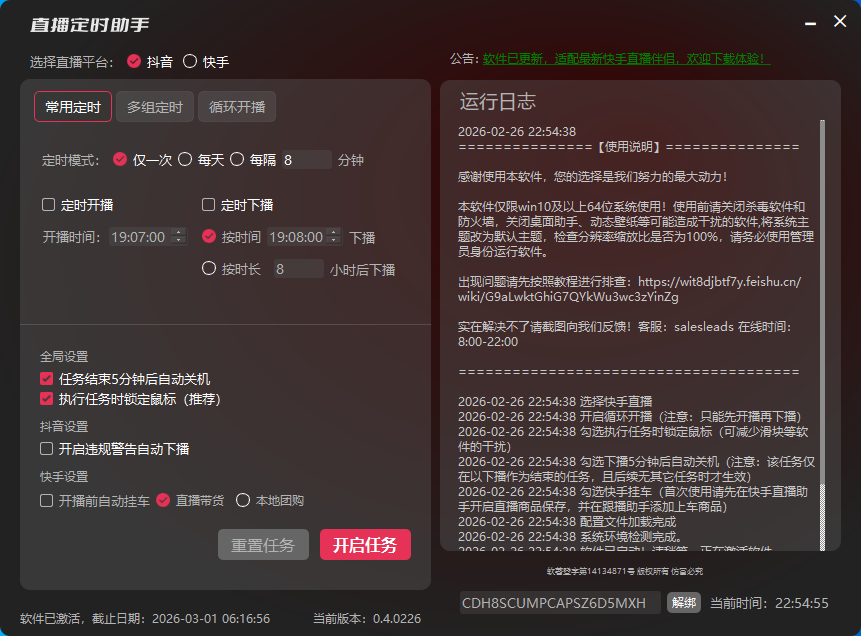
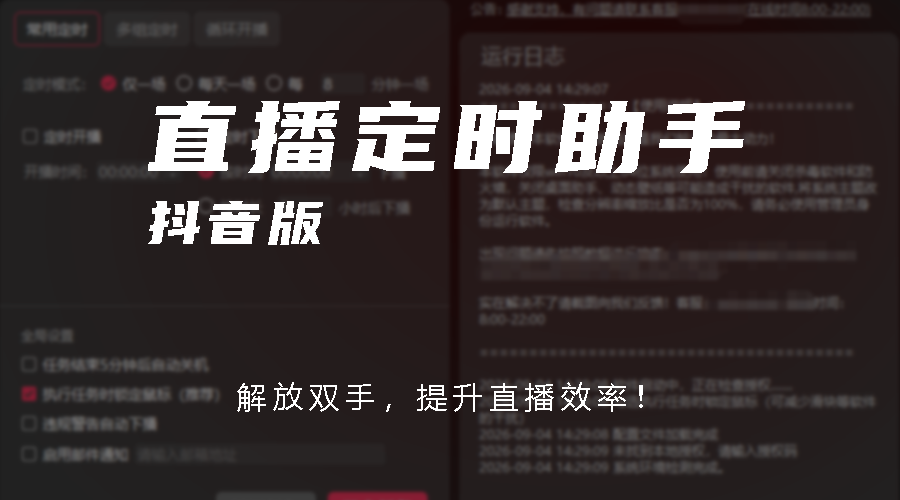
Refactor code structure for improved readability and maintainability

diff --git a/src/content/projects/kwaitimer.md b/src/content/projects/kwaitimer.md
@@ -5,6 +5,7 @@ pubDate: 2025-03-28
 updatedDate: 2026-08-30
 tags: ['Windows', '自动化', '快手', '直播']
 featured: false
+coverImage: '/projects/kwaitimer/cover.png'
 download: 'https://cnb.cool/yuzhiblue/Releases/-/git/raw/main/%E5%BF%AB%E6%89%8B%E7%9B%B4%E6%92%AD%E5%AE%9A%E6%97%B6%E5%8A%A9%E6%89%8B/Kwai_0.5.0.exe'
 draft: false
 ---
@@ -30,6 +31,14 @@ draft: false
 - 支持团购带货自动挂车功能
 
 ## 最新版 0.5.0
+
+## 界面截图
+
+![软件主界面：常用定时](/projects/kwaitimer/1.png)
+
+![软件主界面：多组定时](/projects/kwaitimer/2.png)
+
+![软件主界面：循环定时](/projects/kwaitimer/3.png)
 
 ### 下载地址
 

diff --git a/src/content/projects/doutimer.md b/src/content/projects/doutimer.md
@@ -24,6 +24,15 @@ draft: false
 
 - 本次更新：添加邮箱通知功能 / 剥离快手相关逻辑 / 修复其他问题
 
+## 界面截图
+
+![软件主界面：常用定时](/projects/doutimer/1.png)
+
+![软件主界面：多组定时](/projects/doutimer/2.png)
+
+![软件主界面：循环定时](/projects/doutimer/3.png)
+
+
 ### 下载地址
 
 - 蓝奏云下载：

diff --git a/src/content/projects/obstimer.md b/src/content/projects/obstimer.md
@@ -29,6 +29,10 @@ OBS定时助手是 OBS Studio 上面的一个定时脚本插件。通过调用 O
 - 定时关闭摄像机
 - 支持无限次循环功能
 
+## 界面截图
+
+![脚本主界面](/projects/obstimer/1.png)
+
 ## 下载地址
 
 - 蓝奏云：https://wwsm.lanzouo.com/incxS30yw58d （密码：`gy7u`）

diff --git a/src/content/projects/obstimer-en.md b/src/content/projects/obstimer-en.md
@@ -29,6 +29,10 @@ If you stream via OBS (on any platform — Douyin, Kuaishou, WeChat Channels, Xi
 - Scheduled turn off camera
 - Infinite loop supported
 
+## Photos
+
+![mainborard](/projects/obstimer/1.png)
+
 ## Download
 
 - LanZou Cloud: https://wwsm.lanzouo.com/incxS30yw58d （password: `gy7u`）

diff --git a/src/content/projects/wxtimer.md b/src/content/projects/wxtimer.md
@@ -33,6 +33,14 @@ draft: false
 
 ## 最新版 0.4.0
 
+## 界面截图
+
+![软件主界面：常用定时](/projects/wxtimer/1.png)
+
+![软件主界面：多组定时](/projects/wxtimer/2.png)
+
+![软件主界面：循环定时](/projects/wxtimer/3.png)
+
 ### 下载地址
 
 - 蓝奏云下载：
